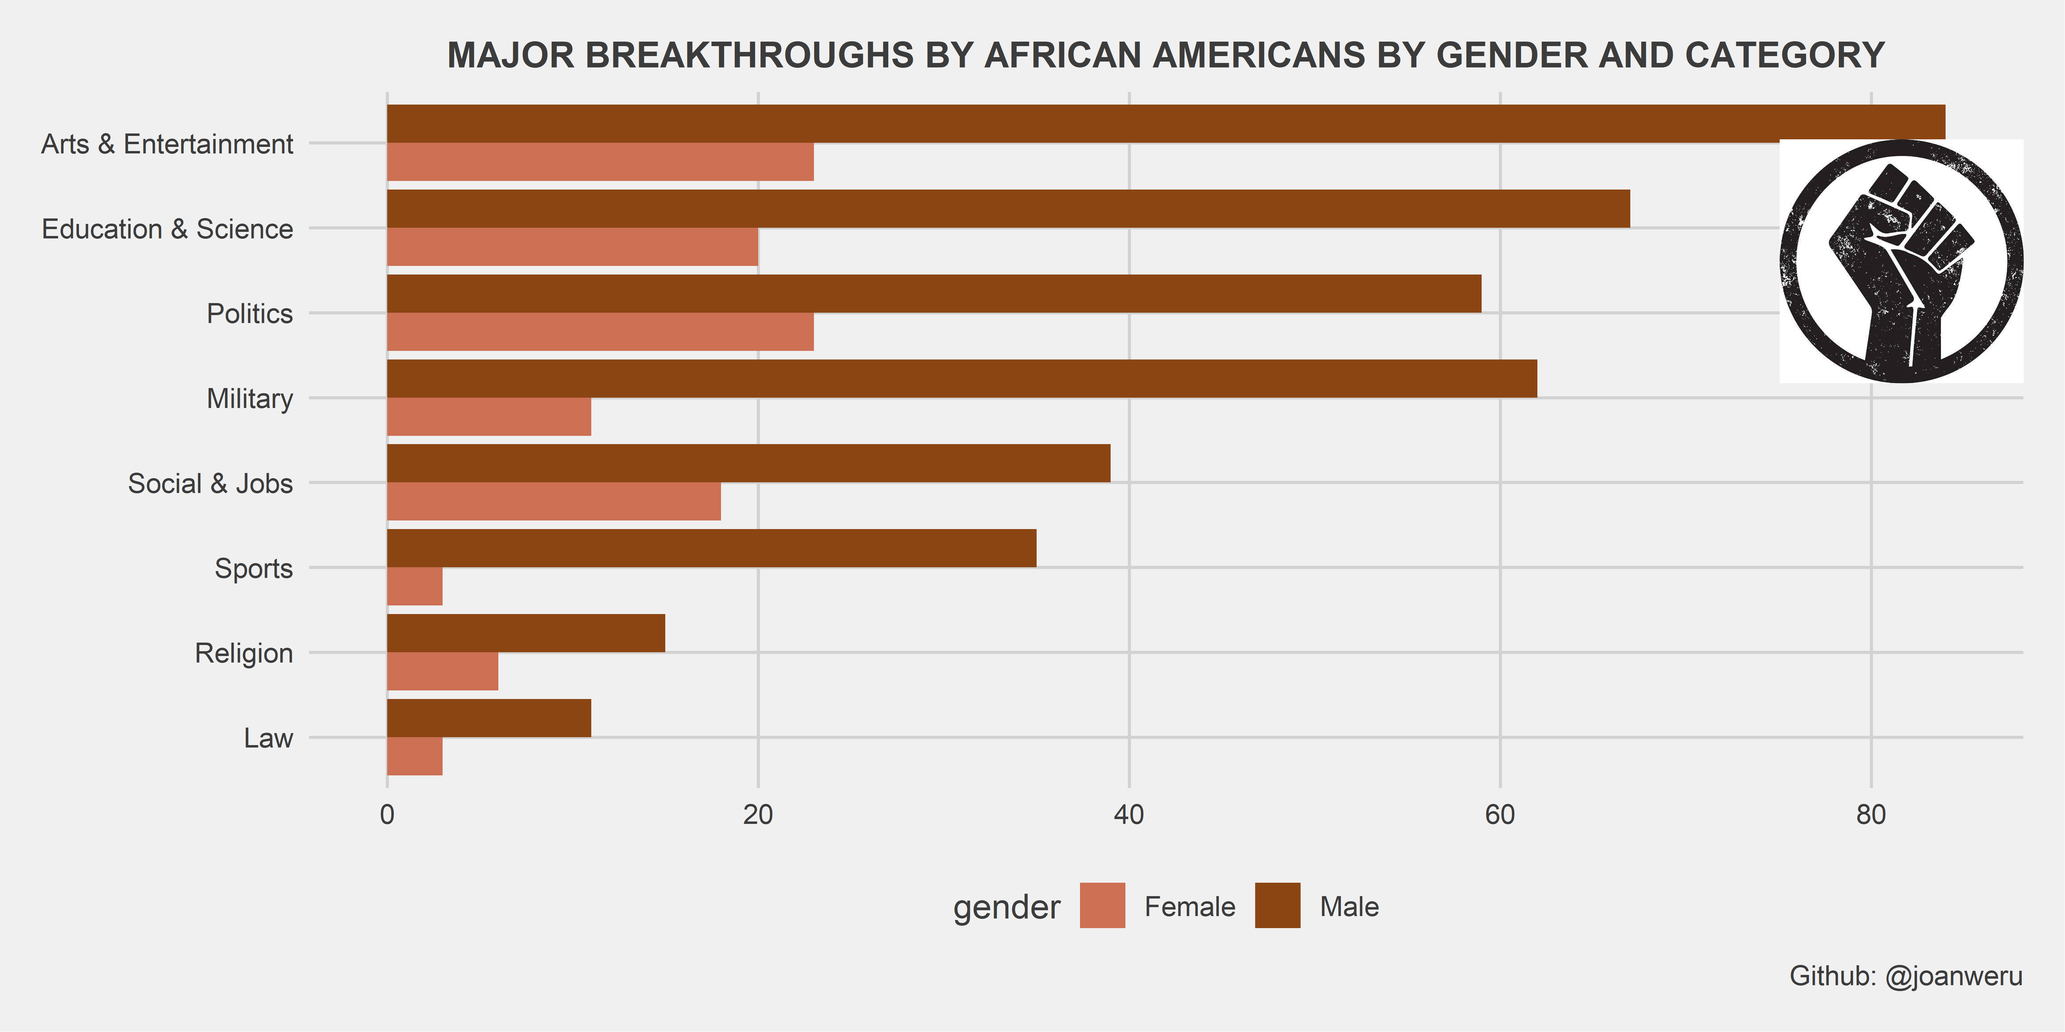
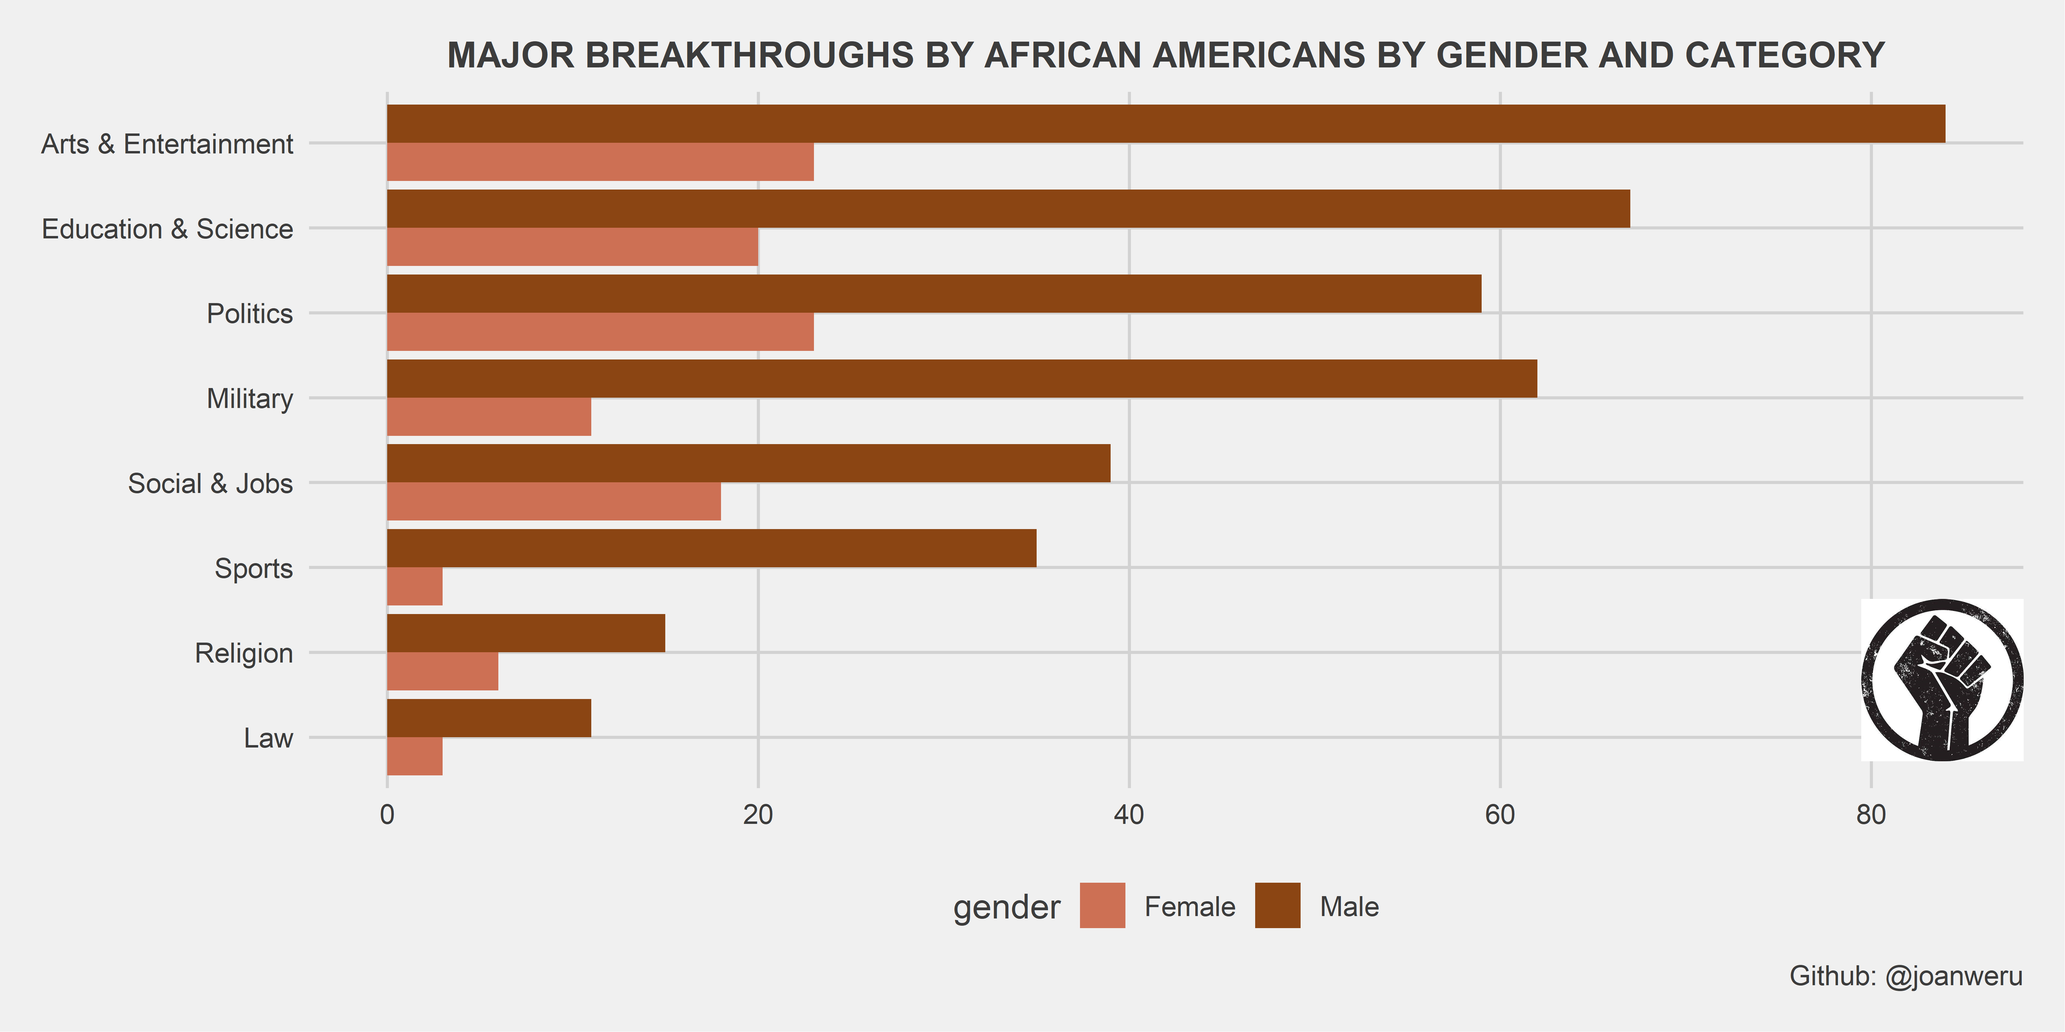
err corect

Changed region(s): [[0.8415, 0.124, 0.9973, 0.372], [0.9038, 0.558, 0.9973, 0.744]]

diff --git a/tidy-black.html b/tidy-black.html
@@ -362,7 +362,7 @@ $(document).ready(function () {
   <a href="#" class="dropdown-toggle" data-toggle="dropdown" role="button" aria-expanded="false">
     <span class="fa fa-pie-chart"></span>
      
-    Data Visualiztion
+    Data Visualization
      
     <span class="caret"></span>
   </a>
@@ -441,7 +441,7 @@ $(document).ready(function () {
 <p><i class="fa fa-link"></i><font size="3"> <strong>First.csv</strong> </font></p>
 <p>This <a href="https://en.m.wikipedia.org/wiki/List_of_African-American_inventors_and_scientists">data set</a> has 479 records of African Americans breaking the color barrier across a wide range of topics. It contains achievements done <strong>first</strong> by African Americans. Breakthroughs if you will.</p>
 <p><i class="fa fa-link"></i><font size="3"> <strong>Science.csv</strong> </font></p>
-<p>This <a href="https://en.wikipedia.org/wiki/List_of_African-American_firsts">data set</a> also celebrates the achievements of African Americans, specifically related to Patents and scientific achievements. One of the amazing scientists present in this data set is David Blackwell [cite] an African american mathematician and statistician with significant contributions to game theory, information theory, and Bayesian statistics.</p>
+<p>This <a href="https://en.wikipedia.org/wiki/List_of_African-American_firsts">data set</a> also celebrates the achievements of African Americans, specifically related to Patents and scientific achievements. One of the amazing scientists present in this data set is <a href="https://en.m.wikipedia.org/wiki/David_Blackwell">David Blackwell</a> an African american mathematician and statistician with significant contributions to game theory, information theory, and Bayesian statistics.</p>
 <p><i class="fa fa-link"></i><font size="3"> <strong>The Black Lives Matter raised fist symbol</strong> </font></p>
 <p>A clenched raised fist has always been a <a href="https://en.m.wikipedia.org/wiki/Raised_fist#:~:text=As%20early%20as%201914%2C%20a,World%20(IWW)%20in%20197">symbol of social revolution</a>. When the <a href="https://en.m.wikipedia.org/wiki/Black_Panther_Party">Black panther group</a> was founded in 1966 by <a href="https://en.m.wikipedia.org/wiki/Huey_p._Newton">Huey P. Newton</a> and <a href="https://en.m.wikipedia.org/wiki/Bobby_Seale">Bobby Seale</a> to challenge police brutality against the African American community, the black power fist was repeatedly used as an emblem of black liberation. Photos and video footage of the Black Panthers saluting one another with raised fists at conventions, meetings and rallies solidified the symbol as synonymous with the fight for black civil rights.</p>
 <p>The black power fist has since been adopted by several black activists and allies of the black community and has also been used during iconic events dear to the black community. For example, while receiving their medals during <a href="https://en.m.wikipedia.org/wiki/1968_Summer_Olympics">the 1968 Mexico City Olympics Games</a>, American sprinters <a href="https://en.m.wikipedia.org/wiki/Tommie_Smith">Tommie Smith</a> and <a href="https://en.m.wikipedia.org/wiki/John_Carlos">John Carlos</a> each wore a black glove and raised their fists as the national anthem played. <a href="https://en.m.wikipedia.org/wiki/Nelson_Mandela">Nelson Mandela</a>, the anti-apartheid activists, when released from prison raised a fist alongside his wife. During the <a href="https://en.m.wikipedia.org/wiki/George_Floyd_protests">George Floyd protests</a>, protesters occasionally used it when protesting and spray painted the symbol on buildings and sidewalks.</p>
@@ -466,7 +466,7 @@ $(document).ready(function () {
 <div class="sourceCode" id="cb2"><pre class="sourceCode r"><code class="sourceCode r"><span id="cb2-1"><a href="#cb2-1"></a>science&lt;-<span class="kw">read_csv</span>(<span class="st">&quot;science.csv&quot;</span>)</span>
 <span id="cb2-2"><a href="#cb2-2"></a>first&lt;-<span class="kw">read_csv</span>(<span class="st">&quot;first.csv&quot;</span>)</span>
 <span id="cb2-3"><a href="#cb2-3"></a>black&lt;-<span class="kw">readPNG</span>(<span class="st">&quot;images-5.png&quot;</span>)</span></code></pre></div>
-<div class="sourceCode" id="cb3"><pre class="sourceCode r"><code class="sourceCode r"><span id="cb3-1"><a href="#cb3-1"></a>g&lt;-<span class="kw">rasterGrob</span>(black,<span class="dt">interpolate =</span> <span class="ot">TRUE</span>,<span class="dt">width =</span> <span class="kw">unit</span>(<span class="dv">3</span>,<span class="st">&quot;cm&quot;</span>),<span class="dt">x=</span><span class="kw">unit</span>(<span class="dv">1</span>,<span class="st">&quot;npc&quot;</span>),<span class="dt">hjust=</span><span class="dv">1</span>,<span class="dt">vjust=</span><span class="op">-</span><span class="dv">1</span>,<span class="dt">just =</span> <span class="st">&quot;bottom&quot;</span>,)</span></code></pre></div>
+<div class="sourceCode" id="cb3"><pre class="sourceCode r"><code class="sourceCode r"><span id="cb3-1"><a href="#cb3-1"></a>g&lt;-<span class="kw">rasterGrob</span>(black,<span class="dt">interpolate =</span> <span class="ot">TRUE</span>,<span class="dt">width =</span> <span class="kw">unit</span>(<span class="dv">2</span>,<span class="st">&quot;cm&quot;</span>),<span class="dt">x=</span><span class="kw">unit</span>(<span class="dv">1</span>,<span class="st">&quot;npc&quot;</span>),<span class="dt">hjust=</span><span class="dv">1</span>,<span class="dt">vjust=</span><span class="op">-</span><span class="dv">1</span>,<span class="dt">just =</span> <span class="st">&quot;bottom&quot;</span>,)</span></code></pre></div>
 </div>
 <div id="manipulating-and-visualizing-the-data" class="section level1" number="3">
 <h1 number="3"><span class="header-section-number">3</span> Manipulating and visualizing the data</h1>
@@ -486,13 +486,13 @@ $(document).ready(function () {
 <span id="cb5-4"><a href="#cb5-4"></a><span class="st">  </span><span class="kw">ggplot</span>(<span class="kw">aes</span>(<span class="dt">x=</span>category,<span class="dt">y=</span>n,<span class="dt">fill=</span>gender))<span class="op">+</span><span class="kw">geom_col</span>(<span class="dt">position =</span> <span class="st">&quot;dodge&quot;</span>)<span class="op">+</span></span>
 <span id="cb5-5"><a href="#cb5-5"></a><span class="st">  </span><span class="kw">scale_fill_manual</span>(<span class="dt">values =</span> <span class="kw">c</span>(<span class="st">&quot;salmon3&quot;</span>,<span class="st">&quot;saddlebrown&quot;</span>))<span class="op">+</span></span>
 <span id="cb5-6"><a href="#cb5-6"></a><span class="st">  </span><span class="kw">coord_flip</span>()<span class="op">+</span><span class="kw">theme</span>(<span class="dt">legend.position =</span> <span class="st">&quot;right&quot;</span>,<span class="dt">legend.direction =</span> <span class="st">&quot;vertical&quot;</span>)<span class="op">+</span><span class="kw">theme_fivethirtyeight</span>()<span class="op">+</span></span>
-<span id="cb5-7"><a href="#cb5-7"></a><span class="st">  </span><span class="kw">labs</span>(<span class="dt">title=</span><span class="st">&quot;MAJOR BREAKTHROUGHS BY AFRICAN AMERICANS BY GENDER AND CATEGORY&quot;</span>,<span class="dt">caption =</span> <span class="st">&quot;Github: @joanweru&quot;</span>)<span class="op">+</span><span class="kw">annotation_custom</span>(g,<span class="dt">xmin =</span> <span class="dv">-4</span>,<span class="dt">ymin=</span><span class="dv">12</span>)<span class="op">+</span><span class="kw">theme</span>(<span class="dt">plot.title =</span> <span class="kw">element_text</span>(<span class="dt">size =</span> <span class="fl">12.5</span>,<span class="dt">hjust =</span><span class="fl">0.5</span>))</span></code></pre></div>
+<span id="cb5-7"><a href="#cb5-7"></a><span class="st">  </span><span class="kw">labs</span>(<span class="dt">title=</span><span class="st">&quot;MAJOR BREAKTHROUGHS BY AFRICAN AMERICANS BY GENDER AND CATEGORY&quot;</span>,<span class="dt">caption =</span> <span class="st">&quot;Github: @joanweru&quot;</span>)<span class="op">+</span><span class="kw">annotation_custom</span>(g,<span class="dt">xmin =</span> <span class="dv">-11</span>,<span class="dt">ymin =</span> <span class="dv">0</span>)<span class="op">+</span><span class="kw">theme</span>(<span class="dt">plot.title =</span> <span class="kw">element_text</span>(<span class="dt">size =</span> <span class="fl">12.5</span>,<span class="dt">hjust =</span><span class="fl">0.5</span>))</span></code></pre></div>
 <p><img src="tidy-black_files/figure-html/unnamed-chunk-7-1.png" width="3000" style="display: block; margin: auto;" /></p>
 <p>We will also visualize breakthrough achievements as they happened throughout the years.</p>
 <div class="sourceCode" id="cb6"><pre class="sourceCode r"><code class="sourceCode r"><span id="cb6-1"><a href="#cb6-1"></a>first<span class="op">%&gt;%</span><span class="kw">mutate</span>(<span class="dt">personal=</span><span class="kw">paste</span>(person,accomplishment,<span class="dt">sep =</span> <span class="st">&quot;----&quot;</span>))<span class="op">%&gt;%</span><span class="kw">add_count</span>(category)<span class="op">%&gt;%</span></span>
 <span id="cb6-2"><a href="#cb6-2"></a><span class="st">  </span><span class="kw">ggplot</span>(<span class="kw">aes</span>(<span class="dt">x=</span>year,<span class="dt">y=</span>n,<span class="dt">color=</span>category))<span class="op">+</span><span class="kw">geom_point</span>(<span class="dt">size=</span><span class="dv">3</span>)<span class="op">+</span></span>
-<span id="cb6-3"><a href="#cb6-3"></a><span class="st">  </span><span class="kw">scale_color_manual</span>(<span class="dt">values =</span> <span class="kw">c</span>(<span class="st">&quot;chocolate2&quot;</span>,<span class="st">&quot;sienna4&quot;</span>,<span class="st">&quot;tomato4&quot;</span>,<span class="st">&quot;tomato3&quot;</span>,<span class="st">&quot;salmon4&quot;</span>,<span class="st">&quot;black&quot;</span>,<span class="st">&quot;red4&quot;</span>,<span class="st">&quot;firebrick&quot;</span>))<span class="op">+</span><span class="kw">theme_fivethirtyeight</span>()<span class="op">+</span><span class="kw">theme</span>(<span class="dt">legend.position =</span> <span class="st">&quot;right&quot;</span>,<span class="dt">legend.direction =</span> <span class="st">&quot;vertical&quot;</span>,<span class="dt">plot.title =</span> <span class="kw">element_text</span>(<span class="dt">hjust =</span> <span class="fl">-0.5</span>,<span class="dt">size =</span> <span class="fl">12.5</span>))<span class="op">+</span></span>
-<span id="cb6-4"><a href="#cb6-4"></a><span class="st">  </span><span class="kw">scale_x_continuous</span>(<span class="dt">breaks =</span> <span class="kw">seq</span>(<span class="dv">1738</span>,<span class="dv">2050</span>,<span class="dv">30</span>))<span class="op">+</span><span class="kw">annotation_custom</span>(g,<span class="dt">xmin =</span> <span class="fl">-0.5</span>,<span class="dt">ymin =</span> <span class="dv">2</span>)<span class="op">+</span><span class="kw">labs</span>(<span class="dt">caption =</span><span class="st">&quot;Github: @joanweru&quot;</span>,<span class="dt">title=</span><span class="st">&quot;HISTORY OF MAJOR BREAKTHROUGHS BY AFRICAN AMERICANS IN VARIOUS FIELDS&quot;</span>)<span class="op">+</span><span class="kw">coord_cartesian</span>(<span class="dt">clip=</span><span class="st">&quot;off&quot;</span>)</span></code></pre></div>
+<span id="cb6-3"><a href="#cb6-3"></a><span class="st">  </span><span class="kw">scale_color_manual</span>(<span class="dt">values =</span> <span class="kw">c</span>(<span class="st">&quot;chocolate2&quot;</span>,<span class="st">&quot;sienna4&quot;</span>,<span class="st">&quot;tomato4&quot;</span>,<span class="st">&quot;tomato3&quot;</span>,<span class="st">&quot;salmon4&quot;</span>,<span class="st">&quot;black&quot;</span>,<span class="st">&quot;red4&quot;</span>,<span class="st">&quot;firebrick&quot;</span>))<span class="op">+</span><span class="kw">theme_fivethirtyeight</span>()<span class="op">+</span><span class="kw">theme</span>(<span class="dt">legend.position =</span> <span class="st">&quot;right&quot;</span>,<span class="dt">legend.direction =</span> <span class="st">&quot;vertical&quot;</span>,<span class="dt">plot.title =</span> <span class="kw">element_text</span>(<span class="dt">hjust =</span> <span class="fl">0.7</span>,<span class="dt">size =</span> <span class="fl">12.5</span>))<span class="op">+</span></span>
+<span id="cb6-4"><a href="#cb6-4"></a><span class="st">  </span><span class="kw">scale_x_continuous</span>(<span class="dt">breaks =</span> <span class="kw">seq</span>(<span class="dv">1738</span>,<span class="dv">2050</span>,<span class="dv">30</span>))<span class="op">+</span><span class="kw">annotation_custom</span>(g,<span class="dt">ymin =</span> <span class="dv">-150</span>,<span class="dt">xmin =</span> <span class="dv">2070</span>)<span class="op">+</span><span class="kw">labs</span>(<span class="dt">caption =</span><span class="st">&quot;Github: @joanweru&quot;</span>,<span class="dt">title=</span><span class="st">&quot;HISTORY OF MAJOR BREAKTHROUGHS BY AFRICAN AMERICANS IN VARIOUS FIELDS&quot;</span>)<span class="op">+</span><span class="kw">coord_cartesian</span>(<span class="dt">clip=</span><span class="st">&quot;off&quot;</span>)</span></code></pre></div>
 <p><img src="tidy-black_files/figure-html/unnamed-chunk-8-1.png" width="3000" style="display: block; margin: auto;" /></p>
 </div>
 <div id="science.csv" class="section level2" number="3.2">
@@ -531,7 +531,7 @@ $(document).ready(function () {
 <span id="cb12-3"><a href="#cb12-3"></a>science1<span class="op">$</span>decade&lt;-<span class="kw">as.numeric</span>(science1<span class="op">$</span>decade)</span></code></pre></div>
 <div class="sourceCode" id="cb13"><pre class="sourceCode r"><code class="sourceCode r"><span id="cb13-1"><a href="#cb13-1"></a>science1<span class="op">%&gt;%</span><span class="kw">ggplot</span>(<span class="kw">aes</span>(<span class="dt">x=</span>decade,<span class="dt">y=</span>n,<span class="dt">fill=</span>field))<span class="op">+</span><span class="kw">geom_bar</span>(<span class="dt">stat =</span> <span class="st">&quot;identity&quot;</span>)<span class="op">+</span><span class="kw">theme_fivethirtyeight</span>()<span class="op">+</span><span class="kw">scale_x_continuous</span>(<span class="dt">breaks=</span><span class="kw">seq</span>(<span class="dv">1730</span>,<span class="dv">2010</span>,<span class="dt">by=</span><span class="dv">10</span>),<span class="dt">labels =</span> <span class="kw">paste0</span>(<span class="kw">seq</span>(<span class="dv">1730</span>,<span class="dv">2010</span>,<span class="dt">by=</span><span class="dv">10</span>),<span class="st">&quot;s&quot;</span>))<span class="op">+</span><span class="st"> </span><span class="kw">scale_y_continuous</span>(<span class="dt">breaks =</span> <span class="kw">seq</span>(<span class="dv">0</span>,<span class="dv">500</span>,<span class="dt">by=</span><span class="dv">30</span>))<span class="op">+</span></span>
 <span id="cb13-2"><a href="#cb13-2"></a><span class="st"> </span><span class="kw">theme</span>(<span class="dt">legend.direction =</span> <span class="st">&quot;vertical&quot;</span>,<span class="dt">legend.position =</span> <span class="st">&quot;right&quot;</span>,<span class="dt">plot.title =</span> <span class="kw">element_text</span>(<span class="dt">size =</span> <span class="dv">15</span>,<span class="dt">hjust =</span> <span class="fl">0.5</span>))<span class="op">+</span></span>
-<span id="cb13-3"><a href="#cb13-3"></a><span class="st">  </span><span class="kw">annotation_custom</span>(g,<span class="dt">xmin =</span><span class="kw">max</span>(science1<span class="op">$</span>decade))<span class="op">+</span><span class="kw">coord_cartesian</span>(<span class="dt">clip=</span><span class="st">&quot;off&quot;</span>)<span class="op">+</span></span>
+<span id="cb13-3"><a href="#cb13-3"></a><span class="st">  </span><span class="kw">annotation_custom</span>(g,<span class="dt">xmin =</span><span class="dv">2010</span>,<span class="dt">ymin =</span> <span class="dv">-350</span>)<span class="op">+</span><span class="kw">coord_cartesian</span>(<span class="dt">clip=</span><span class="st">&quot;off&quot;</span>)<span class="op">+</span></span>
 <span id="cb13-4"><a href="#cb13-4"></a><span class="st">  </span><span class="kw">labs</span>(<span class="dt">caption =</span> <span class="st">&quot;Github:@joanweru&quot;</span>,</span>
 <span id="cb13-5"><a href="#cb13-5"></a>       <span class="dt">title=</span><span class="st">&quot;HISTORY OF NOTABLE AFRICAN AMERICAN INVENTIONS AND CONTRIBUTIONS IN VARIOUS SCIENTIFIC FIELDS&quot;</span>)</span></code></pre></div>
 <p><img src="tidy-black_files/figure-html/unnamed-chunk-16-1.png" width="4500" style="display: block; margin: auto;" /></p>

diff --git a/happiness20.html b/happiness20.html
@@ -362,7 +362,7 @@ $(document).ready(function () {
   <a href="#" class="dropdown-toggle" data-toggle="dropdown" role="button" aria-expanded="false">
     <span class="fa fa-pie-chart"></span>
      
-    Data Visualiztion
+    Data Visualization
      
     <span class="caret"></span>
   </a>
@@ -439,7 +439,7 @@ $(document).ready(function () {
 <div id="about-the-report" class="section level1" number="1">
 <h1 number="1"><span class="header-section-number">1</span> About the report</h1>
 <p>The <a href="https://worldhappiness.report/ed/2020/">world happiness report</a> is an annual publication of the United Nations Sustainable Development Solutions Network. It contains articles and rankings of national happiness based on respondent ratings of their own lives, which the report also correlates with various life factors. The happiness rankings are based on individuals own assessments of their lives as revealed by their own answers to the <a href="https://news.gallup.com/poll/122453/understanding-gallup-uses-cantril-scale.aspx">Cantril ladder question</a> that invites survey participants to imagine their current position on a ladder with steps numbered from 0 to 10, where the top represents the best possible and the bottom the worst possible life for themselves.</p>
-<p>NB: The happiness rankings are not based on an index of the six variables <code>GDP per capita</code> , <code>social support</code>, <code>health life expectancy</code>, <code>freedom</code>, <code>generosity</code> and `perceptions of corruption``. The variables however explain the variation of happiness across countries and also show how measures of well being are themselves affected by the six life factors.</p>
+<p>NB: The happiness rankings are not based on an index of the six variables <code>GDP per capita</code> , <code>social support</code>, <code>health life expectancy</code>, <code>freedom</code>, <code>generosity</code> and <code>perceptions of corruption</code> . The variables however explain the variation of happiness across countries and also show how measures of well being are themselves affected by the six life factors.</p>
 <div id="goal-of-this-report" class="section level2" number="1.1">
 <h2 number="1.1"><span class="header-section-number">1.1</span> Goal of this report</h2>
 <p>Use data visualization to unearth key insights that could help decision makers in improving the quality of life in their countries.</p>

diff --git a/advertising.html b/advertising.html
@@ -360,7 +360,7 @@ $(document).ready(function () {
   <a href="#" class="dropdown-toggle" data-toggle="dropdown" role="button" aria-expanded="false">
     <span class="fa fa-pie-chart"></span>
      
-    Data Visualiztion
+    Data Visualization
      
     <span class="caret"></span>
   </a>

diff --git a/cv.html b/cv.html
@@ -269,7 +269,7 @@ $(document).ready(function () {
   <a href="#" class="dropdown-toggle" data-toggle="dropdown" role="button" aria-expanded="false">
     <span class="fa fa-pie-chart"></span>
      
-    Data Visualiztion
+    Data Visualization
      
     <span class="caret"></span>
   </a>

diff --git a/index.html b/index.html
@@ -269,7 +269,7 @@ $(document).ready(function () {
   <a href="#" class="dropdown-toggle" data-toggle="dropdown" role="button" aria-expanded="false">
     <span class="fa fa-pie-chart"></span>
      
-    Data Visualiztion
+    Data Visualization
      
     <span class="caret"></span>
   </a>

diff --git a/linear-modelling.html b/linear-modelling.html
@@ -360,7 +360,7 @@ $(document).ready(function () {
   <a href="#" class="dropdown-toggle" data-toggle="dropdown" role="button" aria-expanded="false">
     <span class="fa fa-pie-chart"></span>
      
-    Data Visualiztion
+    Data Visualization
      
     <span class="caret"></span>
   </a>

diff --git a/linearmodelling.html b/linearmodelling.html
@@ -360,7 +360,7 @@ $(document).ready(function () {
   <a href="#" class="dropdown-toggle" data-toggle="dropdown" role="button" aria-expanded="false">
     <span class="fa fa-pie-chart"></span>
      
-    Data Visualiztion
+    Data Visualization
      
     <span class="caret"></span>
   </a>
